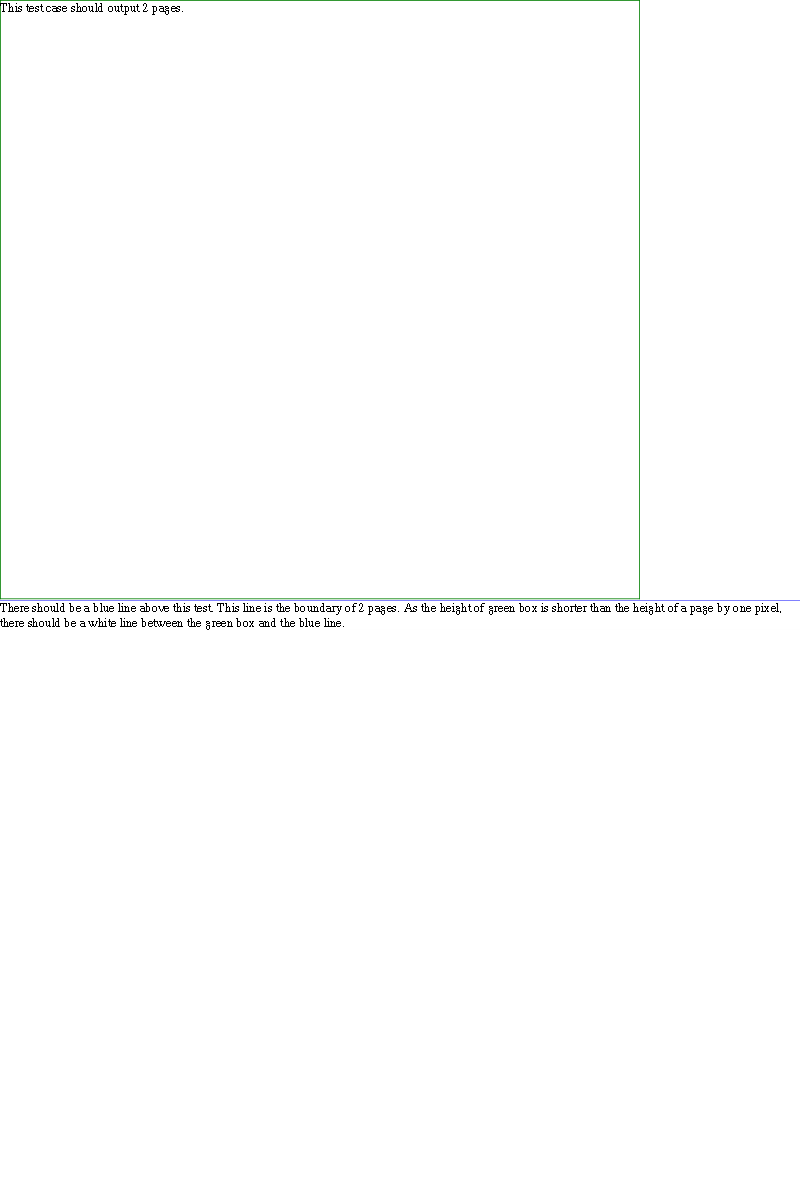
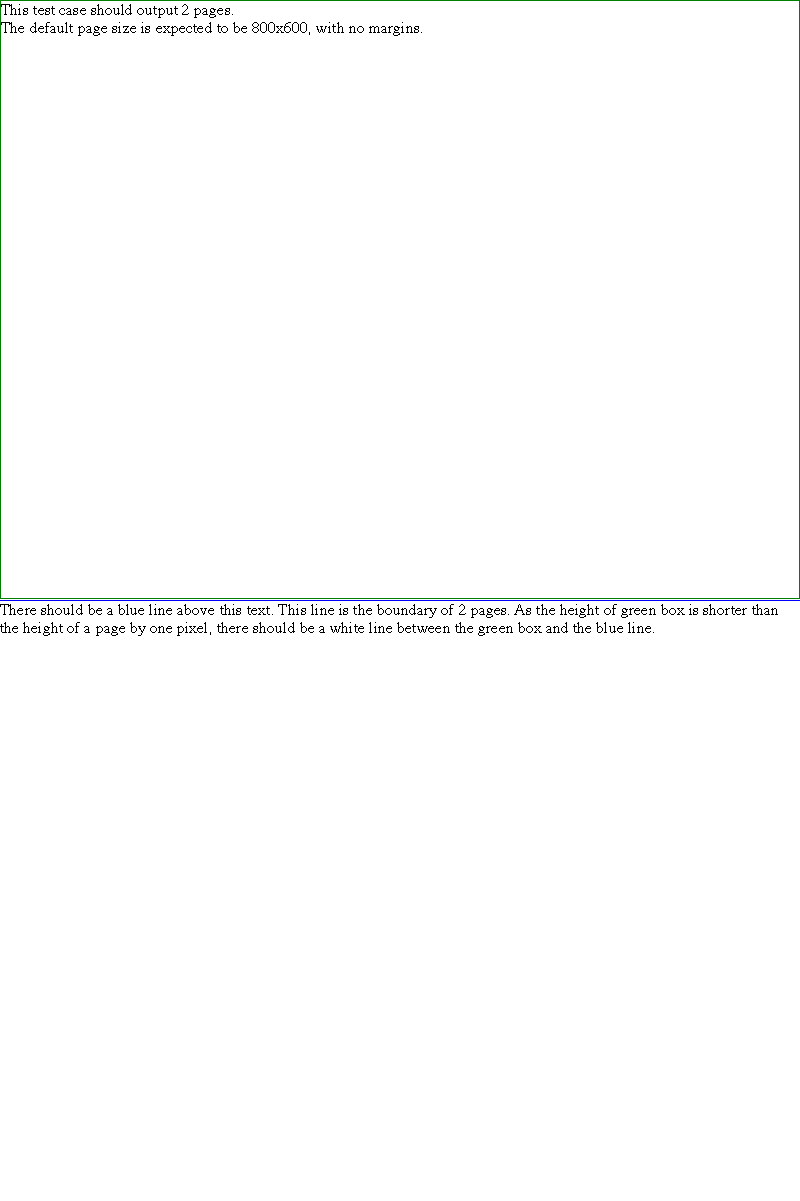
Fix printing/setPrinting.html
Make the correct assumptions about page height (it's 600, not 750), and
rebaseline.

Commit-Queue: Ian Kilpatrick <ikilpatrick@chromium.org>
Auto-Submit: Morten Stenshorne <mstensho@chromium.org>
Cr-Commit-Position: refs/heads/main@{#1274967}

Changed region(s): [[0.0, 0.4929, 0.9688, 0.5237], [0.0, 0.0, 0.375, 0.0308], [0.4688, 0.0, 0.5, 0.0308]]

diff --git a/web_tests/printing/setPrinting.html b/web_tests/printing/setPrinting.html
@@ -1,19 +1,16 @@
-<html>
-<head>
+<!DOCTYPE html>
 <script>
 if (window.testRunner)
     testRunner.setPrinting();
 </script>
-</head>
-
-<body style="margin: 0px;">
-<div style="width: 798px; height: 747px; border: 1px solid green;">
-This test case should output 2 pages.
+<style>
+  body { margin:0; }
+</style>
+<div style="width:798px; height:597px; border:1px solid green;">
+  This test case should output 2 pages.<br>
+  The default page size is expected to be 800x600, with no margins.
 </div>
-There should be a blue line above this test.
+There should be a blue line above this text.
 This line is the boundary of 2 pages.
 As the height of green box is shorter than the height of a page by one pixel,
 there should be a white line between the green box and the blue line.
-</div>
-</body>
-</html>
